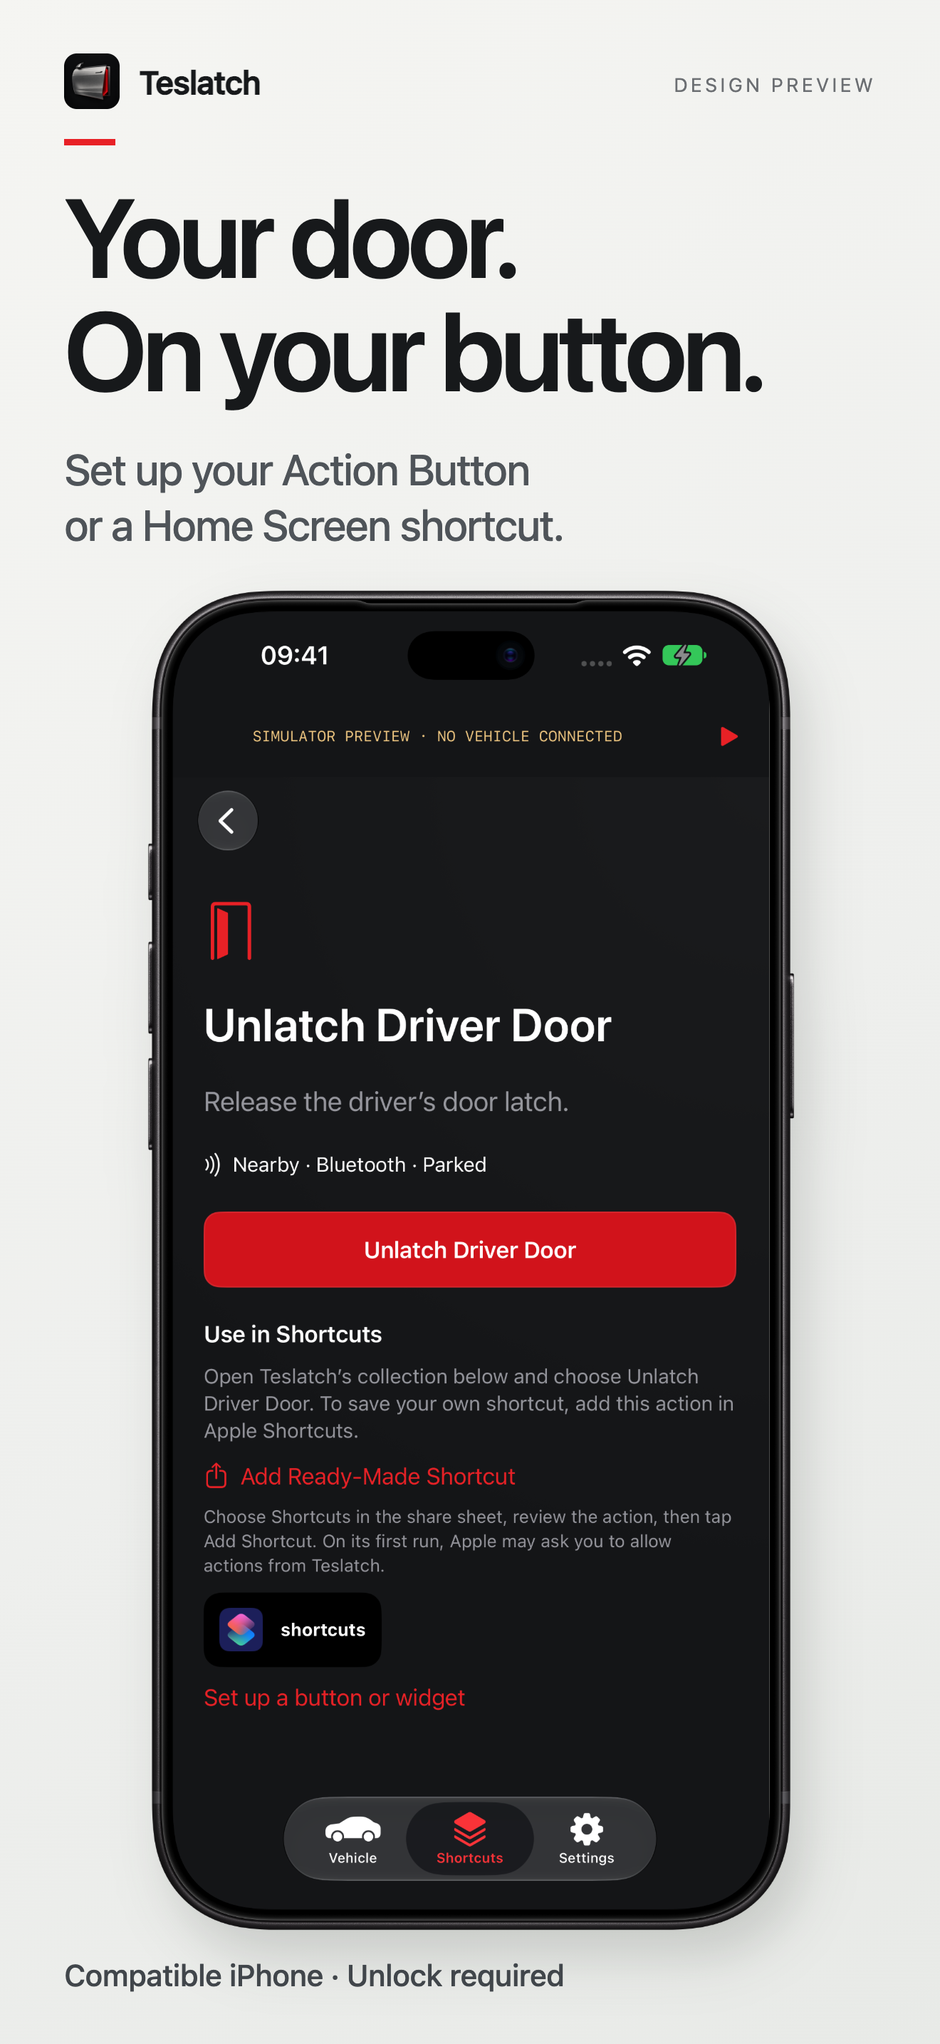
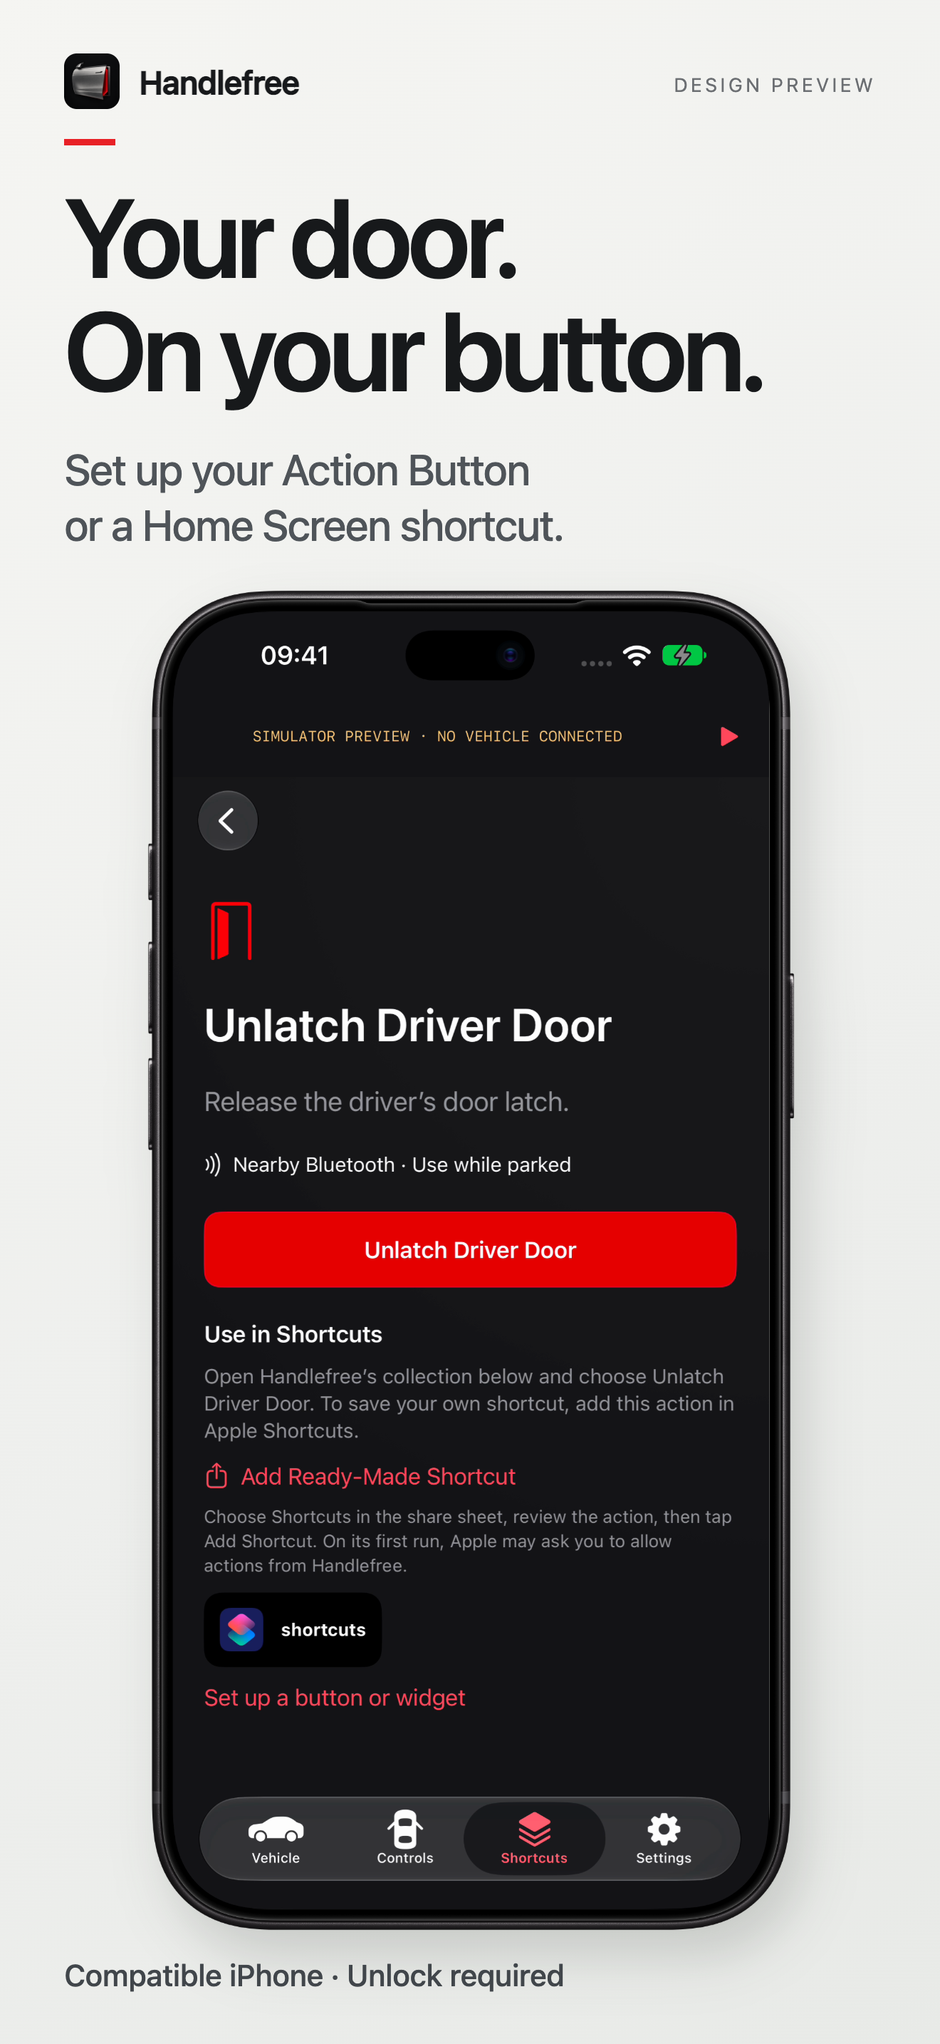
docs: rename showcase to Handlefree
Point every link to handlefree.app, replace the banner and previews with
Handlefree 0.11.0 captures, describe every-door and Control Center
access, and drop the unmeasured speed claim.

diff --git a/README.md b/README.md
@@ -1,76 +1,76 @@
-<a href="https://www.onekapisch.com/teslatch/"><img src="assets/teslatch-bento.png" width="100%" alt="Teslatch beta — Your Tesla. A quicker way in. Door unlatch, Shortcuts, Action Button and Apple Watch. Visit the product website."></a>
+<a href="https://handlefree.app/"><img src="assets/handlefree-banner.png" width="100%" alt="Handlefree beta — Skip the handle. One press. Every door, Shortcuts, Action Button, Control Center and Apple Watch. Visit handlefree.app."></a>
 
-# Teslatch · Tesla door unlatch for iPhone
+# Handlefree · Skip the handle for your Tesla
 
-**Your Tesla. A quicker way in.**
+**Skip the handle. One press.**
 
-Teslatch is a native iPhone app for nearby Tesla access over Bluetooth Low Energy. Unlatch the driver door from the app, an Apple Shortcut or a configured iPhone Action Button. An Apple Watch companion brings driver-door access to your wrist through your paired iPhone.
+Handlefree (formerly Teslatch) is a native iPhone app that opens the Tesla door you choose over local Bluetooth. Unlatch the driver door or a passenger door, open the frunk and trunk, and open or close the charge-port cover, from the app, an Apple Shortcut, the iPhone Action Button, a Control Center control or your Apple Watch.
 
-**[Explore Teslatch →](https://www.onekapisch.com/teslatch/)** · **[Watch the 24-second film](https://www.onekapisch.com/teslatch/#film)** · [Privacy](https://www.onekapisch.com/teslatch/privacy/) · [Support](https://www.onekapisch.com/teslatch/support/)
+**[handlefree.app →](https://handlefree.app/)** · **[Watch the film](https://www.onekapisch.com/handlefree/#film)** · [Guides](https://handlefree.app/guides/) · [Privacy](https://handlefree.app/privacy-policy/) · [Support](https://handlefree.app/support/) · [Deutsch](https://handlefree.app/de/)
 
-> **In TestFlight beta.** The owner has tested the TestFlight build on a Model Y. External invitations are being prepared; there is no public App Store download or public TestFlight link here yet. Visit the product page for current access information.
+> **In TestFlight beta.** The owner has tested the app on a Model Y. There is no public App Store download or public TestFlight link here yet; handlefree.app has current access information.
 >
-> This is the official **product showcase and feedback repository**, not the app's source code. The Web badge links to the website; vehicle control is provided by the native app, not a browser.
+> This is the official **product showcase and feedback repository**, not the app's source code. Vehicle control is provided by the native app, not a browser.
 
 ## Built for the moment you get in
 
 <table>
-<tr><td width="33%"><h3>My door</h3><p>A focused driver-door control, with Shortcuts and Action Button access so you can use the entry point that suits you.</p></td><td width="33%"><h3>Let someone in</h3><p>Choose a passenger door using a visual vehicle layout. Available actions depend on your vehicle and confirmation during setup.</p></td><td width="33%"><h3>Load the car</h3><p>Reach the frunk and trunk through the same interface. Opening and powered-trunk closing remain separate actions.</p></td></tr>
+<tr><td width="33%"><h3>My door</h3><p>A focused driver-door control, with Shortcuts, Action Button and Control Center access so you can use the entry point that suits you.</p></td><td width="33%"><h3>Let someone in</h3><p>Choose a passenger door on a visual vehicle layout, or keep your most-used door as a favourite. Each door is a separate, named action.</p></td><td width="33%"><h3>Load the car</h3><p>Reach the frunk and trunk through the same interface. Opening and powered-trunk closing remain separate actions.</p></td></tr>
 </table>
 
 ### The app, up close
 
 <table>
-<tr><td width="50%"><a href="assets/01-entry.png"><img src="assets/01-entry.png" alt="Teslatch driver-door screen with metallic door artwork" width="100%"></a></td><td width="50%"><a href="assets/02-shortcuts.png"><img src="assets/02-shortcuts.png" alt="Teslatch Shortcuts and quick-access setup preview" width="100%"></a></td></tr>
-<tr><td><a href="assets/03-controls.png"><img src="assets/03-controls.png" alt="Teslatch visual vehicle controls preview" width="100%"></a></td><td><a href="assets/04-privacy.png"><img src="assets/04-privacy.png" alt="Teslatch local Bluetooth and privacy preview" width="100%"></a></td></tr>
+<tr><td width="50%"><a href="assets/01-entry.png"><img src="assets/01-entry.png" alt="Handlefree driver-door screen with metallic door artwork" width="100%"></a></td><td width="50%"><a href="assets/02-shortcuts.png"><img src="assets/02-shortcuts.png" alt="Handlefree Unlatch Driver Door shortcut setup" width="100%"></a></td></tr>
+<tr><td><a href="assets/03-controls.png"><img src="assets/03-controls.png" alt="Handlefree visual vehicle controls for doors, frunk, trunk and charge port" width="100%"></a></td><td><a href="assets/04-privacy.png"><img src="assets/04-privacy.png" alt="Handlefree privacy policy screen: your key stays on your iPhone" width="100%"></a></td></tr>
 </table>
 
-*Approved app previews. Simulator labels remain visible. The artwork illustrates the interface; it does not certify a particular model, trim or physical door position.*
+*App previews captured in the iOS Simulator. Simulator labels remain visible. The artwork illustrates the interface; it does not certify a particular model, trim or physical door position.*
 
 ## What makes it useful
 
 | Experience | What to expect |
 | --- | --- |
-| **Door unlatch** | Release the driver-door latch nearby. Unlatching is different from fully opening a door. |
-| **Apple Shortcuts** | Run supported actions through native App Intents and the in-app Shortcuts setup. |
-| **iPhone Action Button** | Assign the door Shortcut on an iPhone with an Action Button. |
+| **Door unlatch** | Release the latch of the door you choose, nearby. Unlatching is different from fully opening a door. |
+| **Apple Shortcuts and Siri** | Run supported actions through native App Intents and ready-made Shortcuts. |
+| **iPhone Action Button** | Assign a door Shortcut on an iPhone with an Action Button. |
+| **Control Center and Lock Screen** | One fixed control per door on iOS 18 or later. Each opens Handlefree and sends exactly that door. |
 | **Apple Watch** | Driver-door access, including a watch-face entry point, relayed through the paired iPhone. |
-| **Visual vehicle controls** | Spatial door, frunk and trunk controls. Charge-port cover actions are included in the beta and still need broader physical testing. |
-| **Holiday Mode** | Disable Teslatch commands until you turn the mode off. This does not disable other Tesla keys or apps. |
-| **Meaningful feedback** | A command acknowledgement is distinguished from a confirmed vehicle position. Unavailable or stale state stays unknown. |
-| **Personalization** | Your vehicle nickname and presentation artwork, independent of compatibility. |
+| **Visual vehicle controls** | Spatial door, frunk, trunk and charge-port cover controls, mapped to your steering side. |
+| **Honest feedback** | Requested, accepted by the car, reported open or unavailable, plus how long a completed command took. A command acknowledgement is not treated as proof that a door moved. |
+| **Holiday Mode** | Pause Handlefree commands until you turn the mode off with Face ID or your passcode. Other Tesla keys and apps are unaffected. |
 | **English and German** | Localized app interface and Shortcut vocabulary. |
 
 ## Privacy by architecture
 
 - **Nearby Bluetooth commands.** No Tesla Fleet API or internet command relay.
 - **No Tesla account login.** Pair a local key using your existing vehicle key card.
-- **No Teslatch account or backend.** No app advertising or analytics SDK.
+- **No Handlefree account or backend.** No app advertising or analytics SDK.
 - **Keys stay on the iPhone.** Protected with device-only Keychain storage; the Watch relays requests rather than receiving the vehicle key.
-- **Diagnostics are your choice.** No automatic diagnostic upload by Teslatch. Review anything you choose to share.
+- **Diagnostics are your choice.** No automatic diagnostic upload. Review anything you choose to share.
 
-**TestFlight is a separate boundary:** Apple collects beta usage and crash information and can share it with the developer. GitHub, the website host and email providers also process data when you use those services. “No app telemetry” does not mean those services collect nothing. Read the [full privacy policy](https://www.onekapisch.com/teslatch/privacy/).
+**TestFlight is a separate boundary:** Apple collects beta usage and crash information and can share it with the developer. GitHub, the website host and email providers also process data when you use those services. Read the [full privacy policy](https://handlefree.app/privacy-policy/).
 
 ## Compatibility and current evidence
 
 | Requirement | Current position |
 | --- | --- |
-| iPhone | iOS 17 or later; Bluetooth enabled; a compatible Tesla and an existing paired vehicle key card. |
+| iPhone | iOS 17 or later (Control Center controls need iOS 18); Bluetooth enabled; a compatible Tesla and an existing vehicle key card for pairing. |
 | Apple Watch | watchOS 10 or later; paired iPhone nearby. This version is not a standalone Watch key. |
-| Vehicles | Owner-reported success on one Model Y for all four doors, frunk and trunk, plus TestFlight operation. This is not fleet-wide certification. |
+| Vehicles | Owner-reported success on one Model Y for all four doors, frunk and trunk. This is not fleet-wide certification. |
 | Model 3, S and X | Presentation artwork is available. It is not evidence that commands work on every model, year or firmware. |
 | Range | Bluetooth reachability varies. There is no guaranteed 10-metre distance boundary. |
-| Regions | France is excluded from the initial beta. |
-| Price | Free during beta. Launch pricing remains undecided; no subscription is planned. |
+| No vehicle power | Handlefree needs a powered, reachable car. In an emergency use the manual door release described in your owner's manual. |
+| Price | Free during beta. Launch pricing is undecided; no subscription is planned. |
 
-[Detailed compatibility notes](docs/COMPATIBILITY.md) · [Setup and troubleshooting](https://www.onekapisch.com/teslatch/support/)
+[Detailed compatibility notes](docs/COMPATIBILITY.md) · [Setup guides](https://handlefree.app/guides/)
 
 ## Getting started
 
-1. Visit the [Teslatch product page](https://www.onekapisch.com/teslatch/) for current beta access information.
+1. Visit [handlefree.app](https://handlefree.app/) for current beta access information.
 2. Once invited, install through Apple's TestFlight app.
-3. While parked near the vehicle, follow Teslatch's pairing instructions with your existing Tesla key card. Use the interior reader location appropriate to your model; not every vehicle uses the same location.
-4. Verify the driver-door action in the app, then set up your preferred Shortcut, Action Button or Watch control.
+3. While parked near the vehicle, follow Handlefree's pairing instructions with your existing Tesla key card. Use the interior reader location appropriate to your model.
+4. Test each door in the app, then set up your preferred Shortcut, Action Button, Control Center or Watch control.
 
 Keep the door or cargo area clear when testing. Do not rely on an animation alone to confirm physical movement.
 
@@ -78,19 +78,23 @@ Keep the door or cargo area clear when testing. Do not rely on an animation alon
 
 **Can it work without internet?**
 
-Vehicle commands use local Bluetooth. TestFlight installation, website access and support communication require their respective services. The iPhone must still be near the car.
+Vehicle commands use local Bluetooth, so the car can be reached in a garage without signal. TestFlight installation, website access and support communication require their respective services. The iPhone must still be near the car.
+
+**Can I open a passenger or rear door, not just the driver's?**
+
+Yes, on supported vehicles. Each door is a separate action with its own Shortcut and Control Center control. Test each door in the app before relying on its Shortcut.
 
 **Does the Watch work with the iPhone locked?**
 
-The default requires iPhone unlock. An optional Watch-access setting allows locked-phone use after owner authentication and setup on the iPhone. The paired phone is still required nearby; device restart and system restrictions can affect access.
+The default requires iPhone unlock. An optional Watch-access setting allows locked-phone use after owner authentication and setup on the iPhone. The paired phone is still required nearby.
 
-**Can I use the Watch Action Button?**
+**Does Handlefree replace the Tesla app?**
 
-Only Apple Watch Ultra models have that button. Routing and reliability on specific hardware remain part of beta testing. Other watches use the app or watch-face entry point.
+It focuses on getting into the car. Keep the Tesla app for its wider vehicle features and remote services.
 
-**Does Teslatch replace the Tesla app?**
+**Why the new name?**
 
-It focuses on nearby vehicle entry. Keep the Tesla app for its wider vehicle features and remote services.
+The beta was called Teslatch. It was renamed Handlefree in September 2026 so the product name does not use Tesla's trademark. Pairings and settings carry over.
 
 **Is this open source?**
 
@@ -98,7 +102,7 @@ No. This repository publishes product information and approved media. The native
 
 ## Help improve the beta
 
-Use a [bug report](https://github.com/onekapisch/teslatch-app/issues/new?template=bug-report.yml) for a reproducible problem or a [feature suggestion](https://github.com/onekapisch/teslatch-app/issues/new?template=feature-request.yml) for a specific entry/access improvement. Include the app build, phone/Watch OS and vehicle model/year where relevant.
+Use a [bug report](https://github.com/onekapisch/handlefree/issues/new?template=bug-report.yml) for a reproducible problem or a [feature suggestion](https://github.com/onekapisch/handlefree/issues/new?template=feature-request.yml) for a specific entry/access improvement. Include the app build, phone/Watch OS and vehicle model/year where relevant.
 
 **Never post your VIN, key material, account credentials, precise location or unredacted diagnostic logs in a public issue.** Security concerns belong in [private reporting](SECURITY.md).
 
@@ -106,8 +110,8 @@ Use a [bug report](https://github.com/onekapisch/teslatch-app/issues/new?templat
 
 Built by **Kapisch Bhardwaj**, an independent developer in Germany.
 
-[Explore the studio](https://www.onekapisch.com/) · [More apps](https://www.onekapisch.com/products/) · [Support](https://www.onekapisch.com/teslatch/support/)
+[handlefree.app](https://handlefree.app/) · [Explore the studio](https://www.onekapisch.com/) · [More apps](https://www.onekapisch.com/products/)
 
-Teslatch is an independent app and is not affiliated with or endorsed by Tesla, Inc. Tesla and vehicle model names belong to their respective owners. Apple, iPhone, Apple Watch and TestFlight are trademarks of Apple Inc. Artwork is stylized, not official Tesla CAD.
+Handlefree is an independent app and is not affiliated with or endorsed by Tesla, Inc. Tesla and vehicle model names belong to their respective owners. Apple, iPhone, Apple Watch and TestFlight are trademarks of Apple Inc. Artwork is stylized, not official Tesla CAD.
 
-<sub>Product information reviewed 21 September 2026. Beta capabilities and availability may change.</sub>
+<sub>Product information reviewed 23 September 2026. Beta capabilities and availability may change.</sub>

diff --git a/AGENTS.md b/AGENTS.md
@@ -1,7 +1,7 @@
-# Teslatch public showcase
+# Handlefree public showcase
 
 This repository contains public product information and approved media only. Never copy native app source, signing material, vehicle identifiers, credentials or internal release notes here.
 
-Preserve the TestFlight beta label and link the hero to https://www.onekapisch.com/teslatch/. Do not invent a public invitation, App Store listing, price or universal compatibility claim. Web is a website badge, not a browser vehicle controller.
+Preserve the TestFlight beta label and link the hero to https://handlefree.app/. Do not invent a public invitation, App Store listing, price or universal compatibility claim. Web is a website badge, not a browser vehicle controller.
 
-Use approved artwork. Profile tile renderer lives in onekapisch/onekapisch at scripts/build-bento.mjs; it renders tile-teslatch. The public app implementation stays private. Update CHANGELOG.md and TODO.md for meaningful changes. Check Markdown links, image references, issue templates and git diff --check before publishing.
+Use approved artwork. Profile tile renderer lives in onekapisch/onekapisch at scripts/build-bento.mjs; it renders tile-handlefree. The public app implementation stays private. Update CHANGELOG.md and TODO.md for meaningful changes. Check Markdown links, image references, issue templates and git diff --check before publishing.

diff --git a/SECURITY.md b/SECURITY.md
@@ -1,9 +1,9 @@
 # Security and privacy reporting
 
-Report suspected vulnerabilities privately to **support@onekapisch.com**, with “Teslatch security” in the subject. Do not open a public issue with exploit details or personal data.
+Report suspected vulnerabilities privately to **support@onekapisch.com**, with “Handlefree security” in the subject. Do not open a public issue with exploit details or personal data.
 
 Include the affected app version, general device/vehicle model and steps to reproduce. Do not send vehicle keys, VINs, credentials or precise location. We will request additional information if needed; no response-time SLA is promised.
 
-This showcase has no application backend and stores no vehicle data. GitHub hosts public issues under its own policies. Support messages are processed to address your request; the app's data handling and retention are described in the [privacy policy](https://www.onekapisch.com/teslatch/privacy/).
+This showcase has no application backend and stores no vehicle data. GitHub hosts public issues under its own policies. Support messages are processed to address your request; the app's data handling and retention are described in the [privacy policy](https://handlefree.app/privacy-policy/).
 
 No secrets or private implementation files belong in this repository. Approved public screenshots may include simulator fixture data only.

diff --git a/NOTICE.md b/NOTICE.md
@@ -2,8 +2,8 @@
 
 Copyright 2026 OneKapisch / Kapisch Bhardwaj. All rights reserved unless otherwise stated.
 
-This public showcase is not an open-source licence for the Teslatch app, documentation, brand or media. Third-party trademarks remain the property of their owners. Teslatch is independent of Tesla, Inc. and Apple Inc.
+This public showcase is not an open-source licence for the Handlefree app, documentation, brand or media. Third-party trademarks remain the property of their owners. Handlefree is independent of Tesla, Inc. and Apple Inc.
 
-Approved app previews and icon were supplied by the developer. The metallic door illustration is stylized, AI-assisted product artwork; it is not official Tesla CAD. Preview frames and screen compositions are inherited from the approved Teslatch campaign. Preview labels have not been removed.
+Approved app previews and icon were supplied by the developer. The metallic door illustration is stylized, AI-assisted product artwork; it is not official Tesla CAD. Preview frames and screen compositions are inherited from the approved Handlefree campaign. Preview labels have not been removed.
 
 Contact support@onekapisch.com for reuse requests.

diff --git a/docs/ASSETS.md b/docs/ASSETS.md
@@ -1,7 +1,7 @@
 # Approved public assets
 
-- assets/icon.png: developer-approved Teslatch app icon.
+- assets/icon.png: developer-approved Handlefree app icon.
 - assets/01-entry.png through assets/04-privacy.png: unchanged approved Studio preview exports already published on the product website.
-- assets/teslatch-bento.png: generated for the public showcase and GitHub profile using the profile renderer at onekapisch/onekapisch, scripts/build-bento.mjs (tile-teslatch). It composes the approved icon and transparent door panel without modifying their source pixels.
+- assets/handlefree-banner.png: generated for the public showcase and GitHub profile using the profile renderer at onekapisch/onekapisch, scripts/build-bento.mjs (tile-handlefree). It composes the approved icon and transparent door panel without modifying their source pixels.
 
 The tile is 3072 × 688 pixels. GitHub displays it at the available README width. Do not remove simulator labels from screenshots or imply official Tesla artwork.

diff --git a/docs/COMPATIBILITY.md b/docs/COMPATIBILITY.md
@@ -1,4 +1,4 @@
-# Teslatch compatibility
+# Handlefree compatibility
 
 Last reviewed: 21 September 2026.
 
@@ -25,4 +25,4 @@ The app includes Model 3/S/X/Y appearance choices. Artwork selection does not en
 - Reader locations vary by vehicle; follow model-appropriate pairing instructions.
 - France is excluded from the initial beta.
 
-For troubleshooting, use the [support guide](https://www.onekapisch.com/teslatch/support/). When reporting compatibility, supply model/year, software version, app build and the particular action. Do not publish a VIN, key or location.
+For troubleshooting, use the [support guide](https://handlefree.app/support/). When reporting compatibility, supply model/year, software version, app build and the particular action. Do not publish a VIN, key or location.

diff --git a/CHANGELOG.md b/CHANGELOG.md
@@ -1,5 +1,11 @@
 # Showcase changelog
 
+## 2026-09-23 — Handlefree
+
+- Renamed from Teslatch to Handlefree after Apple's 4.1(a) name rejection; repository renamed to `onekapisch/handlefree` (GitHub redirects the old URL).
+- Links now point to handlefree.app for the product, guides, privacy policy and support.
+- New banner and app previews captured from Handlefree 0.11.0; README adds every-door control, Control Center (iOS 18+), command timing and the no-vehicle-power limitation, and removes the unmeasured "quicker way in" claim.
+
 ## 2026-09-21
 
 - Published the public Teslatch showcase with a full-width bento hero and four approved preview screenshots.
